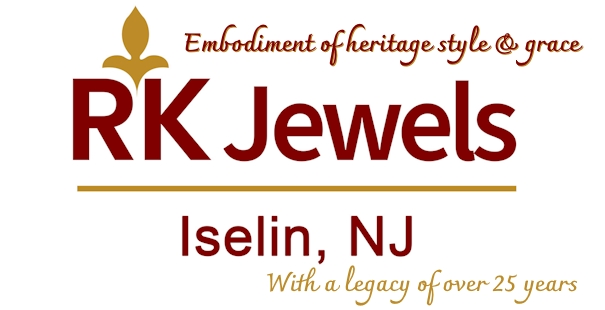
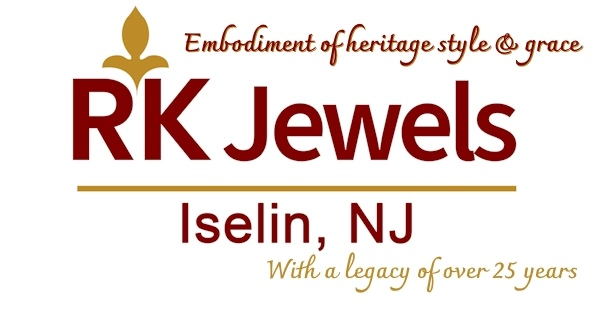
Sponsor updates

Changed region(s): [[0.2975, 0.6387, 0.9521, 0.9871]]

diff --git a/index.html b/index.html
@@ -276,23 +276,24 @@
             <div class="col-lg-4 col-sm-12" >
                 <h3><span class="icon fa fa-star-o"></span>&nbsp;Special thanks to our Gold Sponsors&nbsp;<span class="icon fa fa-star-o"></span></h3>
                 <div class="col-lg-6 col-sm-6 col-xs-12">
-                    <span><a href="https://rkjewels.com/" target="_blank"><img src="img/sponsors/rkjewels2023.jpg"  class="img-responsive" alt="Fox & Reach Realtors"></a></span><br/>
-                </div>
-                <!-- <div class="col-lg-6 col-sm-6 col-xs-12">
-                    <span><a href="https://surekharaghuram.foxroach.com/contact-me" target="_blank"><img src="img/sponsors/foxreach2022.jpg" class="img-responsive" alt="Fox & Reach Realtors"></a></span>
-                </div> -->
-                <div class="col-lg-6 col-sm-6 col-xs-12">
-                    <span><a href="https://money2india.icicibank.com/newm2iNet/" target="_blank"><img src="img/sponsors/icici_2022.jpg" class="img-responsive" alt="ICICI Bank Money2India"></a></span>
+                    <span><a href="https://rkjewels.com/" target="_blank"><img src="img/sponsors/rkjewels2023.png"  class="img-responsive" alt="Fox & Reach Realtors"></a></span>
                 </div>
                 <div class="col-lg-6 col-sm-6 col-xs-12">
-                    <span><a href="https://www.newyorklife.com/agent/smajumdar" target="_blank"><img src="img/sponsors/ny_life_2022.png" class="img-responsive"  alt="New York Life"></a></span><br/>
+                    <span><a href="https://www.newyorklife.com/agent/smajumdar" target="_blank"><img src="img/sponsors/nylife_2023.png" class="img-responsive"  alt="New York Life"></a></span>
                 </div>
                 <div class="col-lg-6 col-sm-6 col-xs-12">
-                    <span><a href="https://www.yupptv.com/bengalipackages.aspx" target="_blank"><img src="img/sponsors/zeebangla2022.jpg" class="img-responsive" alt="Zee Bangal on Yupp TV"></a>&nbsp;</span>
+                    <span><a href="https://www.surefintaxsvs.com" target="_blank"><img src="img/sponsors/surefin2023.png" class="img-responsive" alt="Sure Financial"></a></span>
                 </div>
                 <div class="col-lg-6 col-sm-6 col-xs-12">
-                    <span><a href="https://www.surefintaxsvs.com" target="_blank"><img src="img/sponsors/surefin2023.png" class="img-responsive" alt="Sure Financial"></a>&nbsp;</span>
+                    <span><a href="https://money2india.icicibank.com/newm2iNet/" target="_blank"><img src="img/sponsors/icici_2023.png" class="img-responsive" alt="ICICI Bank Money2India"></a></span>
                 </div>
+                <div class="col-lg-6 col-sm-6 col-xs-12">
+                    <span><a href="https://www.yupptv.com/bengalipackages.aspx" target="_blank"><img src="img/sponsors/zeebangla2022.jpg" class="img-responsive" alt="Zee Bangal on Yupp TV"></a></span>
+                </div>
+                <div class="col-lg-6 col-sm-6 col-xs-12">
+                    <span><a href="https://www.sonajewelers.com/" target="_blank"><img src="img/sponsors/sona_2023.png" class="img-responsive" alt="Sona Jewellers"></a></span>
+                </div>
+                
             </div>
         </div>
 
@@ -301,7 +302,7 @@
             <div class="col-md-2 col-sm-2 col-xs-12">
                 <p>Utsov would also like to thank the following:</p>
             </div>
-            <div class="col-md-8 col-sm-6 col-xs-12">
+            <div class="col-md-10 col-sm-10 col-xs-12">
                 <div class="wrapper">
                     <div class="marquee" >
                         <!-- Marquee text needs to be here -->
@@ -310,14 +311,14 @@
                 </div>
                 <p style="align-content: space-around; padding-left: 20px; padding-top: 10px;">*Utsov is a registered 501 (c)(3) not-for-profit organization. Your entire donation may be tax-deductible. Please talk to your tax professional for details.</p>
             </div>
-            <div class="col-md-2 col-md-4 col-sm-4 col-xs-12">
+            <!-- <div class="col-md-2 col-md-4 col-sm-4 col-xs-12">
                 <div class="col-md-6 col-xs-6">
                     <span><a href="https://www.liquorlockerclub.com/" target="_blank"><img src="img/sponsors/liquorlocker2022.jpg"  class="img-responsive" alt="Savers Club Liquor Locker"></a>&nbsp;</span>
                 </div>
                 <div class="col-md-6 col-xs-6">
                     <span><a href="https://www.sonajewelers.com/" target="_blank"><img src="img/sponsors/sona_2022.png"  class="img-responsive" alt="Sona Jewellers"></a>&nbsp;</span>
                 </div>
-            </div>
+            </div> -->
         </div>
         <div class="row">
             <!-- <div class="col-lg-2 col-sm-12 col-xs-12"> -->
